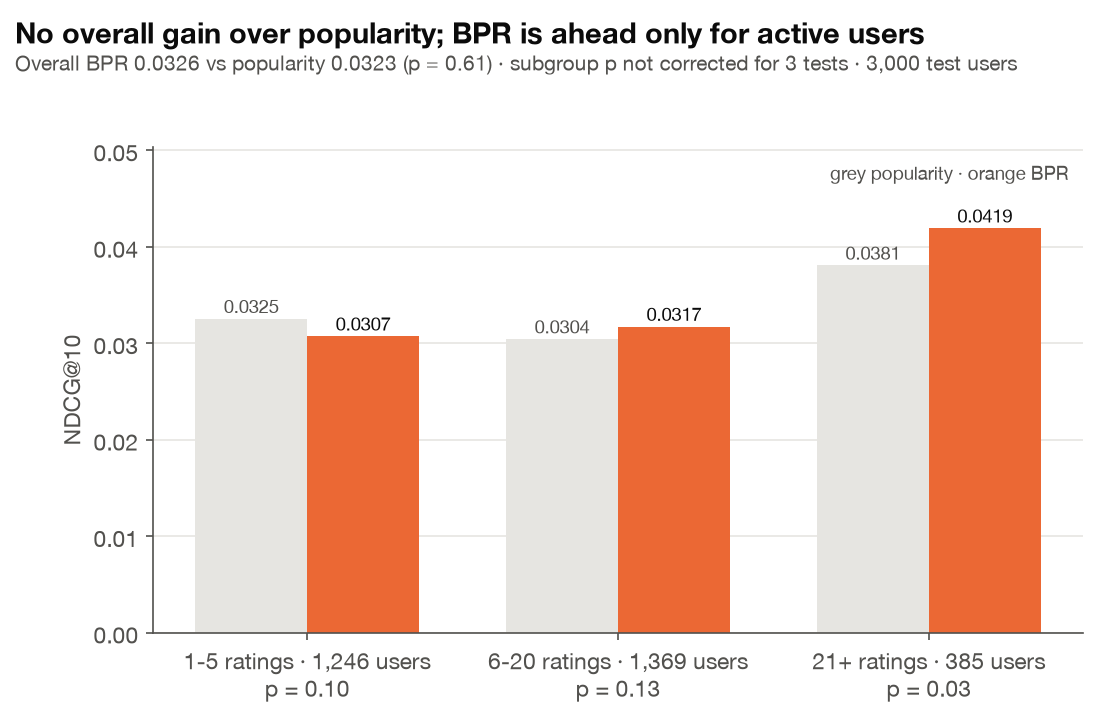
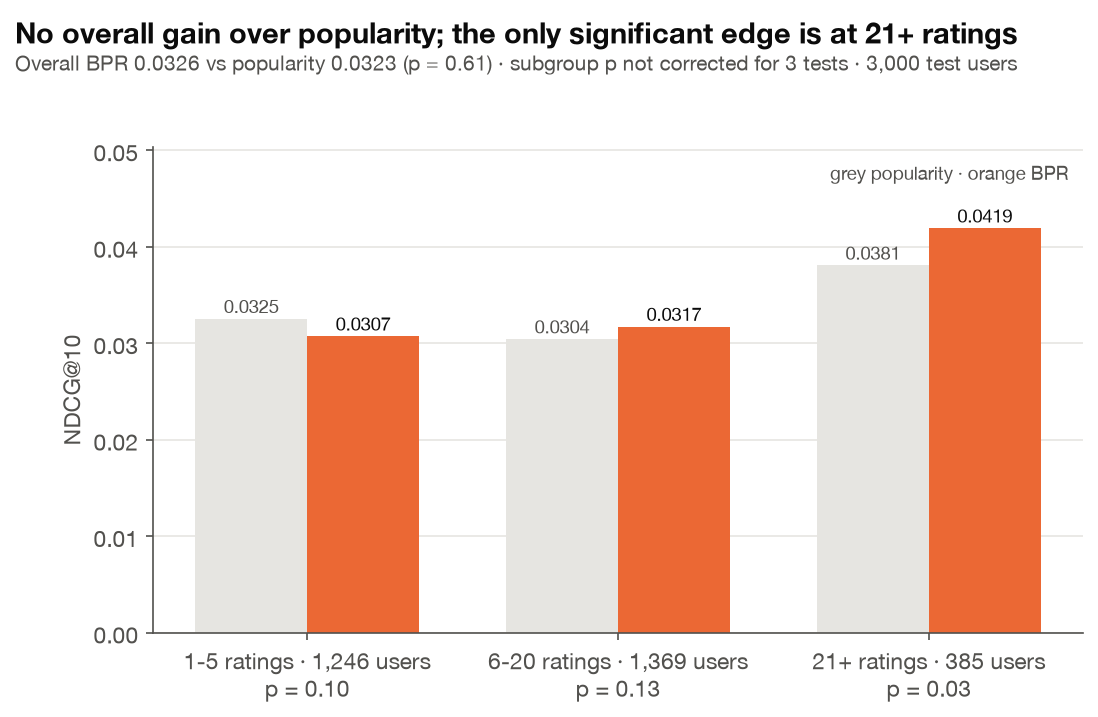
fix(bpr): 음성 샘플 최종 확인, 정규화 계수와 문구 정리
- 10번 다시 뽑아도 간 곳이면 (u, i, i) 같은 무효 쌍이 학습되므로 그 쌍은
  갱신에서 뺀다 (실험 데이터에는 해당 사용자가 없어 결과 동일)
- 목적함수를 lambda/2 형태로 적어 코드의 갱신식(-lambda * p_u)과 맞춤
- B1 제목과 README·문서: 6~20개 집단도 평균은 BPR이 높으므로 "활동적
  사용자에게서만"이 아니라 "21개 이상에서만 유의"로
- README: BPR은 순위 모델이라 predict 없이 score_all만
(CodeRabbit 리뷰)

Related to #52

Changed region(s): [[0.4026, 0.0307, 0.929, 0.0614]]

diff --git a/src/tasteroute/models/bpr.py b/src/tasteroute/models/bpr.py
@@ -9,9 +9,10 @@ BPR learns the ranking directly from which places a user went to:
 
 and, for a place i the user went to and a place j they did not, maximizes
 
-    ln sigma(x_ui - x_uj) - lam * (||p_u||^2 + ||q_i||^2 + ||q_j||^2 + b_i^2 + b_j^2)
+    ln sigma(x_ui - x_uj) - lam / 2 * (||p_u||^2 + ||q_i||^2 + ||q_j||^2 + b_i^2 + b_j^2)
 
-with stochastic gradient ascent over sampled (u, i, j) triples. The item bias
+with stochastic gradient ascent over sampled (u, i, j) triples (the lam / 2
+makes the regularization gradient -lam * p_u, as in the updates below). The item bias
 b_i lets the model learn popularity; p_u . q_i learns the personal part.
 
 Reference: S. Rendle, C. Freudenthaler, Z. Gantner, L. Schmidt-Thieme,
@@ -82,21 +83,32 @@ class BPR:
             self.P, self.Q, self.b = best_state
         return self
 
+    def _is_seen(self, u, j):
+        """True where user u[k] has gone to item j[k] (binary search in the sorted keys)."""
+        keys = u * self.n_items + j
+        pos = np.searchsorted(self._seen, keys)
+        return (pos < len(self._seen)) & (self._seen[np.minimum(pos, len(self._seen) - 1)] == keys)
+
     def _negatives(self, u, rng):
-        """One item per user in u that the user has not gone to (uniform, resampled)."""
+        """One item per user in u that the user has not gone to (uniform, resampled).
+
+        Returns (j, ok): ok is False where 10 redraws still hit a visited item
+        (a user who went almost everywhere); those triples must be skipped.
+        """
         j = rng.integers(self.n_items, size=len(u))
         for _ in range(10):
-            keys = u * self.n_items + j
-            pos = np.searchsorted(self._seen, keys)
-            hit = (pos < len(self._seen)) & (self._seen[np.minimum(pos, len(self._seen) - 1)] == keys)
+            hit = self._is_seen(u, j)
             if not hit.any():
                 break
             j[hit] = rng.integers(self.n_items, size=int(hit.sum()))
-        return j
+        return j, ~self._is_seen(u, j)
 
     def _step(self, u, i, rng):
         """One mini-batch of gradient ascent; returns the mean -ln sigma(x_uij)."""
-        j = self._negatives(u, rng)
+        j, ok = self._negatives(u, rng)
+        u, i, j = u[ok], i[ok], j[ok]
+        if len(u) == 0:
+            return 0.0
         pu, qi, qj = self.P[u], self.Q[i], self.Q[j]
         x = self.b[i] - self.b[j] + np.sum(pu * (qi - qj), axis=1)
         # d/dx ln sigma(x) = sigma(-x): how much each triple still needs to move

diff --git a/tests/test_bpr.py b/tests/test_bpr.py
@@ -28,9 +28,16 @@ def test_negatives_are_never_positives():
     train = _clusters()
     m = BPR(40, 20, f=2, max_epochs=1).fit(train)
     u = np.repeat(np.arange(40), 50)
-    j = m._negatives(u, np.random.default_rng(1))
+    j, ok = m._negatives(u, np.random.default_rng(1))
     seen = set(zip(train.u, train.i))
-    assert not any((a, b) in seen for a, b in zip(u.tolist(), j.tolist()))
+    assert ok.all() and not any((a, b) in seen for a, b in zip(u.tolist(), j.tolist()))
+
+
+def test_user_who_went_everywhere_is_skipped():
+    train = pd.DataFrame({"u": [0, 0, 1], "i": [0, 1, 0]})  # user 0 went to both items
+    m = BPR(2, 2, f=2, max_epochs=1).fit(train)
+    j, ok = m._negatives(np.array([0, 1]), np.random.default_rng(0))
+    assert list(ok) == [False, True] and j[1] == 1
 
 
 def test_early_stopping_restores_best_epoch():

diff --git a/experiments/figures.py b/experiments/figures.py
@@ -322,7 +322,7 @@ def b1_bpr_activity():
     ax.set_ylabel("NDCG@10")
     ax.text(len(rows) - 0.55, ax.get_ylim()[1] * 0.97, "grey popularity · orange BPR", ha="right", va="top",
             fontsize=9, color=INK2)
-    titled(fig, "No overall gain over popularity; BPR is ahead only for active users",
+    titled(fig, "No overall gain over popularity; the only significant edge is at 21+ ratings",
            f"Overall BPR {d['test']['BPR']['NDCG@10']:.4f} vs popularity {d['test']['Popularity']['NDCG@10']:.4f} "
            f"(p = {d['paired']['BPR vs Popularity']['p']:.2f}) · subgroup p not corrected for 3 tests · 3,000 test users")
     save(fig, "B1_bpr_by_activity")

diff --git a/docs/BPR.md b/docs/BPR.md
@@ -4,7 +4,7 @@
 
 ## 한 줄 요약
 
-별점 대신 **"어디에 갔는가"의 순위를 직접 학습하는 BPR**을 구현했다. 전체 test 3,000명에서 BPR은 인기순보다 낫다는 증거가 없었다(NDCG@10 +0.0003, p = 0.61). 평점이 21개 이상인 활동적 사용자에게서만 인기순보다 높았지만(0.0419 vs 0.0381, p = 0.03), 세 집단을 나눠 본 결과라 보정하면 유의하지 않고, validation에서도 확인되지 않았다. 결론은 **이 데이터에서는 학습 목표를 순위로 바꿔도 개인화 신호가 약하다**는 것이다.
+별점 대신 **"어디에 갔는가"의 순위를 직접 학습하는 BPR**을 구현했다. 전체 test 3,000명에서 BPR은 인기순보다 낫다는 증거가 없었다(NDCG@10 +0.0003, p = 0.61). 활동량별로 나누면 평점 21개 이상 집단에서만 유의하게 높았지만(0.0419 vs 0.0381, p = 0.03; 6~20개 집단도 평균은 높으나 p = 0.13), 세 집단을 나눠 본 결과라 보정하면 유의하지 않고, validation에서도 확인되지 않았다. 결론은 **이 데이터에서는 학습 목표를 순위로 바꿔도 개인화 신호가 약하다**는 것이다.
 
 ## 왜 하나
 
@@ -21,11 +21,12 @@ x_ui = b_i + p_u · q_i        사용자 u에게 장소 i의 점수 (b_i: 장소
 간 곳 i와 안 간 곳 j의 쌍마다 "i를 j보다 위에 놓을 확률"을 키운다.
 
 ```
-최대화:  Σ ln σ(x_ui − x_uj) − λ (‖p_u‖² + ‖q_i‖² + ‖q_j‖² + b_i² + b_j²)
+최대화:  Σ ln σ(x_ui − x_uj) − (λ/2) (‖p_u‖² + ‖q_i‖² + ‖q_j‖² + b_i² + b_j²)
 ```
 
 - **학습**: 미니배치(1,024쌍) 확률적 경사 상승. 기울기는 `σ(−x_uij)`(아직 덜 맞힌 정도)에 비례한다. 같은 사용자나 장소가 한 배치에 여러 번 나와도 갱신이 합쳐지도록 `np.add.at`을 쓴다.
-- **음성 샘플링**: j는 전체 장소에서 무작위로 뽑고, 사용자가 이미 간 곳이면 다시 뽑는다 (정렬된 키 배열에서 `np.searchsorted`로 확인).
+- **음성 샘플링**: j는 전체 장소에서 무작위로 뽑고, 사용자가 이미 간 곳이면 다시 뽑는다 (정렬된 키 배열에서 `np.searchsorted`로 확인). 10번 다시 뽑아도 간 곳이면 그 쌍은 갱신에서 뺀다.
+- **정규화 계수**: 목적함수의 λ/2 항을 미분하면 −λ·p_u이 되어, 코드의 갱신식(−λ·p_u)과 같다.
 - **조기 종료**: 매 epoch validation NDCG@10을 재고, 5 epoch 동안 나아지지 않으면 멈춘 뒤 가장 좋았던 epoch의 파라미터로 되돌린다.
 - **새 방문자**: 개인 벡터가 없으므로 장소 편향 b_i만으로 순위를 매긴다.
 

diff --git a/README.md b/README.md
@@ -69,7 +69,7 @@ notebooks/                    탐색용 노트북 (선택)
 docs/                         제안서, 코드 구현 계획, 구현 가이드, 발표 개요
 ```
 
-모든 모델은 같은 인터페이스를 가진다: `fit(train)`, `predict(u, i)`, `score_all(u)`.
+별점 모델은 같은 인터페이스를 가진다: `fit(train)`, `predict(u, i)`, `score_all(u)`. 순위 모델 BPR은 별점을 예측하지 않으므로 `fit`과 `score_all`만 있다.
 
 ## 실행
 
@@ -129,7 +129,7 @@ streamlit run app/dashboard.py
 
 **거리 민감도 학습** (`results/learned_distance.json`, [설명](docs/ML_Learned_Distance.md)): 고정 규칙 `e^(-d/2km)` 대신 로지스틱 회귀(직접 구현한 경사하강법 + L2)로 거리, 개인 이동 반경, 예상 별점, 인기도의 가중치를 학습했다. 기존 설정보다 NDCG@10이 유의하게 높고(0.0340 → 0.0365, p = 0.003), 검증으로 튜닝한 고정 규칙과는 유의한 차이를 찾지 못했고(p = 0.36), 커버리지는 더 넓었다(1.01% → 1.26%, 점 추정값). 개인 이동 반경을 빼면 유의하게 나빠진다. 1km 지점에서 1km 더 멀어지는 손해는 인기도 1.56배로 상쇄된다.
 
-**순위 학습 BPR** (`results/bpr.json`, [설명](docs/BPR.md)): 별점 대신 "어디에 갔는가"의 순위를 쌍 비교 손실로 직접 학습했다. 전체로는 인기순보다 낫다는 증거가 없고(NDCG@10 0.0326 vs 0.0323, p = 0.61), 학습 평점 21개 이상 사용자에게서만 앞섰다(0.0419 vs 0.0381, p = 0.03, 세 집단 보정 전). 학습 목표를 순위로 바꿔도 이 데이터의 개인화 신호는 약하다.
+**순위 학습 BPR** (`results/bpr.json`, [설명](docs/BPR.md)): 별점 대신 "어디에 갔는가"의 순위를 쌍 비교 손실로 직접 학습했다. 전체로는 인기순보다 낫다는 증거가 없고(NDCG@10 0.0326 vs 0.0323, p = 0.61), 활동량별로는 21개 이상 집단에서만 유의하게 앞섰다(0.0419 vs 0.0381, p = 0.03, 세 집단 보정 전; 6~20개 집단도 평균은 높지만 p = 0.13). 학습 목표를 순위로 바꿔도 이 데이터의 개인화 신호는 약하다.
 
 ## 참고 문헌과 코드 출처
 
